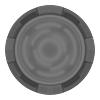
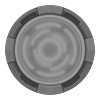
Map: teleport pads show the color picked, hidden ones only while building
The pad's gray is set so the colorized pad shows the picked color itself,
it came out darker before. A pad colored nearly invisible shows to admins
only while they build or have its menu open, with a faint circle instead of
a red square.

diff --git a/BondageClub/Screens/Online/ChatRoom/ChatRoomMapView.js b/BondageClub/Screens/Online/ChatRoom/ChatRoomMapView.js
@@ -1427,8 +1427,10 @@ function ChatRoomMapViewDrawGrid(Left, Top, Width, Height) {
 				ObjectImage = MapGetAssetUrl("Object", Obj.Type, ImageName);
 				const color = Obj.BuildImageColor?.(X, Y);
 				let opacity = color?.length === 9 ? parseInt(color.slice(7), 16) / 255 : 1;
-				// Admins still see objects colored nearly invisible, outlined so they aren't taken for regular ones
-				const hiddenFromOthers = opacity < 0.3 && ChatRoomPlayerIsAdmin();
+				// While building, admins still see objects colored nearly invisible, circled so they aren't taken for regular ones
+				const building = ["Tile", "Object", "Effect"].includes(ChatRoomMapViewEditMode)
+					|| (ChatRoomMapViewSelectedObjectIndex === X + Y * ChatRoomMapViewWidth && !ChatRoomMapViewDialogMenu?.hidden);
+				const hiddenFromOthers = opacity < 0.3 && building && ChatRoomPlayerIsAdmin();
 				if (hiddenFromOthers) opacity = 0.35;
 
 				DrawImageResize(color ? ChatRoomMapViewGetColoredImage(ObjectImage, CommonColorTrimAlpha(color)) : ObjectImage,
@@ -1438,7 +1440,7 @@ function ChatRoomMapViewDrawGrid(Left, Top, Width, Height) {
 					Math.ceil(TileHeight * ((Obj.Height == null) ? 1 : Obj.Height)),
 					{ Rotation: Obj.Rotation, Alpha: opacity }
 				);
-				if (hiddenFromOthers) DrawEmptyRect(Left + ScreenX + 2, Top + ScreenY + 2, TileWidth - 4, TileHeight - 4, "red", 2);
+				if (hiddenFromOthers) DrawCircle(Left + ScreenX + TileWidth / 2, Top + ScreenY + TileHeight / 2, TileWidth * 0.47, 1.5, "#FFFFFF80");
 			}
 		}
 
